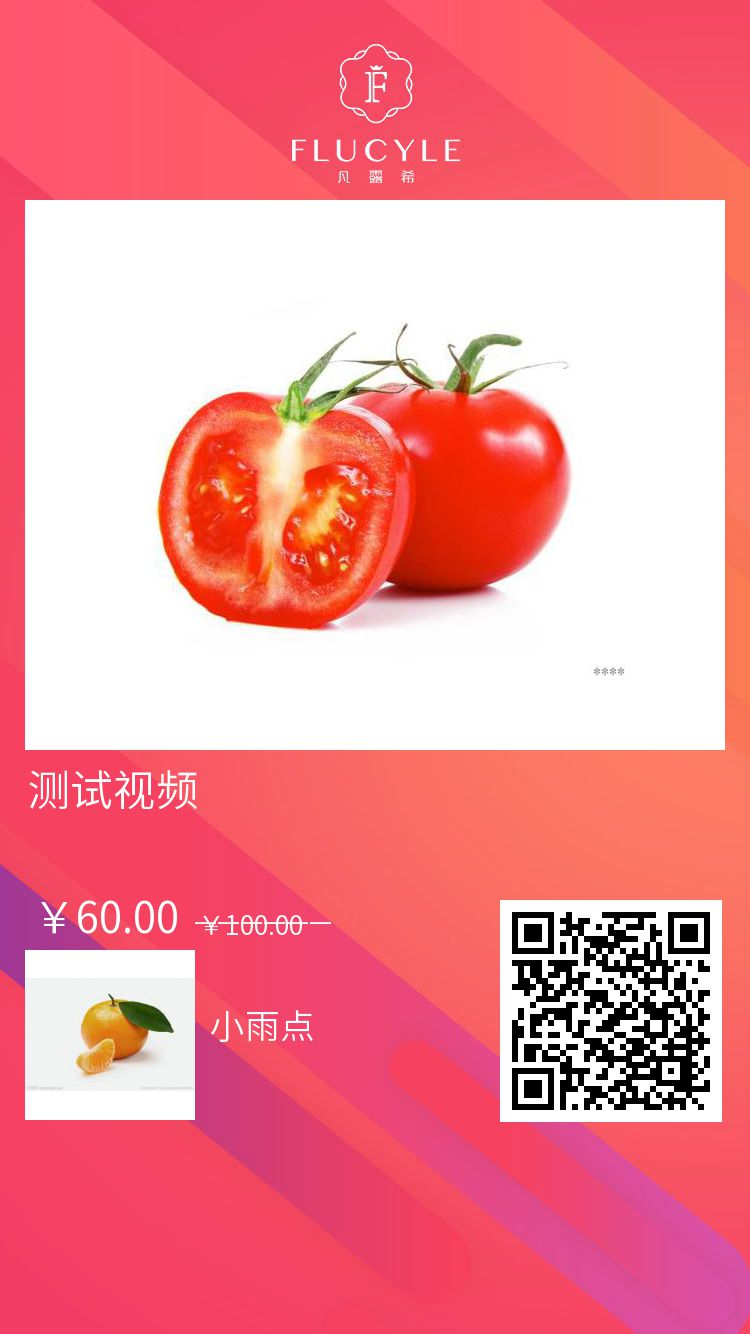
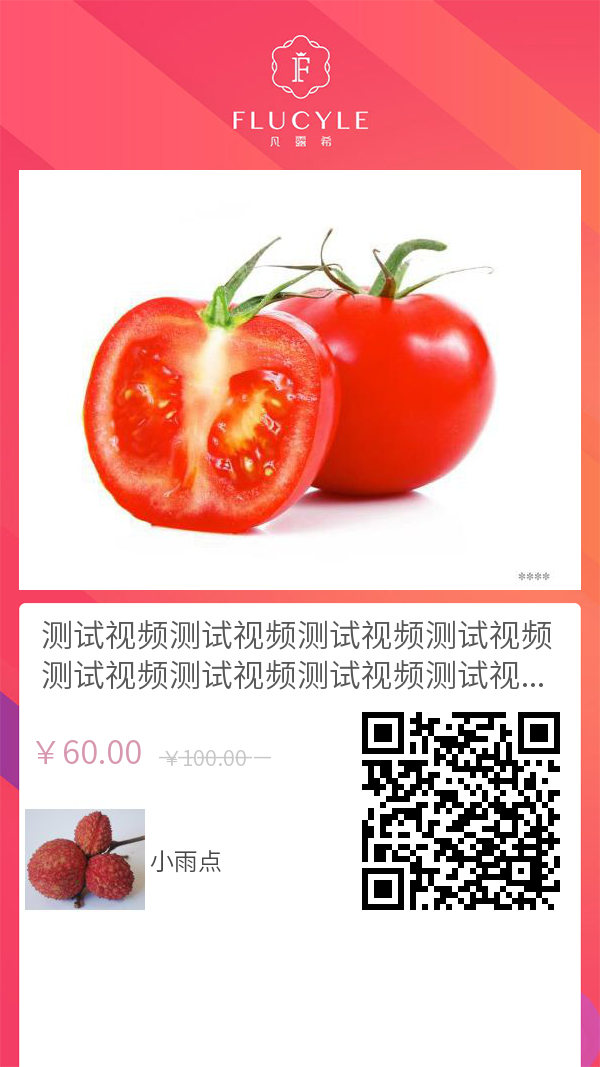
分享

diff --git a/application/shop/controller/Goods.php b/application/shop/controller/Goods.php
@@ -316,7 +316,8 @@ class Goods extends MobileBase
      * 商品详情页
      */
     public function goodsInfo()
-    {   $this->redirect('details', ['id' => I("get.id/d",0),'shareid'=>I('shareid/d',0)]); return;
+    {   
+        $this->redirect('details', ['id' => I("get.id/d",0),'shareid'=>I('shareid/d',0)]); return;
 
         $shareid = I('shareid');
         if(!empty($shareid) && !session('?user'))
@@ -346,7 +347,6 @@ class Goods extends MobileBase
             $collect = db('goods_collect')->where(array("goods_id" => $goods_id, "user_id" => $user_id))->count(); //当前用户收藏
             $this->assign('collect', $collect);
         }
-
         $recommend_goods = M('goods')->where("is_recommend=1 and is_on_sale=1 and cat_id = {$goods['cat_id']}")->cache(7200)->limit(9)->field("goods_id, goods_name, shop_price")->select();
 
         //等级价格
@@ -387,69 +387,73 @@ class Goods extends MobileBase
         $goods_id =  $goods['goods_id'];//商品id
         $goods_name = $goods['goods_name'];//商品名称
         $q_goods_name = mb_substr($goods_name,0,16,'UTF8');
-        $h_goods_name = mb_substr($goods_name,16,16,'UTF8');
+        $h_goods_name = mb_substr($goods_name,16,15,'UTF8');
         $goods_name_num = mb_strlen($goods_name,'UTF8');
-        if($goods_name_num > 32){
+        if($goods_name_num > 31){
             $h_goods_name .= '...';
         }
         $goods_img_url = substr($goods['original_img'],1,200);//商品图片
         if(!file_exists($goods_img_url)){
             return false;
         }
+
         $goods_image = \think\Image::open($goods_img_url);
         // 按照原图的比例生成一个最大为750*550的缩略图并保存
-        $goods_image->thumb(700,550,\think\Image::THUMB_FILLED)->save('public/qrcode/goods/goods_'. $goods_id.'_750_550.png');
+        $goods_image->thumb(562,420,\think\Image::THUMB_FILLED)->save('public/qrcode/goods/goods_'. $goods_id.'_750_550.png');
         $new_godos_img = 'public/qrcode/goods/goods_'. $goods_id.'_750_550.png';//新图片的名字
         //获取商品的二维码
         $goods_qrcode=goods_qrcode($url,$goods_id);
         //背景图片，width-750，height-1335
-        if(!file_exists('public/qrcode/goods/goods_qrcode.jpg')){
+        if(!file_exists('public/qrcode/goods/goods_qrcode.png')){
             return false;
         }
-        $image = \think\Image::open('public/qrcode/goods/goods_qrcode.jpg');
+        
+        $image = \think\Image::open('public/qrcode/goods/goods_qrcode.png');
 
-        $image->water($new_godos_img,[25,200]); //融合商品图
-        $image->water($goods_qrcode,[500,900]); //融合二维码
+        $image->water($new_godos_img,[19,170]); //融合商品图
+        $image->water($goods_qrcode,[350,700]); //融合二维码
         //判断价格字数来放位置
         $goods_price_num = mb_strlen($goods_price,'UTF8');
         $market_price_num = mb_strlen($market_price,'UTF8');
-        $wz = $goods_price_num*28+25;
+        $wz = $goods_price_num*22+25;
         if($market_price_num < 4){
             $market_price_msg = '——';
         }else if($market_price_num == 4){
             $market_price_msg = '———';
         }else if($market_price_num == 5){
             $market_price_msg = '————';
+        }else if($market_price_num == 6){
+            $market_price_msg = '—————';
         }else{
             $market_price_msg = '——————';
         }
         // 给原图添加文字水印并保存
-        $image->text($q_goods_name,'SourceHanSansCN-Normal.ttf',32,'#ffffff',[25,770]);
-        $image->text($h_goods_name,'SourceHanSansCN-Normal.ttf',32,'#ffffff',[25,820]);
-        $image->text($market_price,'SourceHanSansCN-Normal.ttf',20,'#ffffff',[$wz,915]);
-        $image->text($market_price_msg,'SourceHanSansCN-Normal.ttf',20,'#ffffff',[$wz,922]);
+        $image->text($q_goods_name,'SourceHanSansCN-Normal.ttf',24,'#585858',[40,620]);
+        $image->text($h_goods_name,'SourceHanSansCN-Normal.ttf',24,'#585858',[40,660]);
+        $image->text($market_price,'SourceHanSansCN-Normal.ttf',16,'#C7C7C7',[$wz,750]);
+        $image->text($market_price_msg,'SourceHanSansCN-Normal.ttf',16,'#C7C7C7',[$wz,756]);
         //融合用户头像和昵称-
         $user = session('user');
         if($user){
             $q = mb_substr($user['head_pic'],0,1,'UTF8');
             if($q== 'h'){
-                return false;
+                $head_pic = '';
             }else{
                 $head_pic = mb_substr($user['head_pic'],1,200,'UTF8');
             }
             if(file_exists($head_pic)){
                 //缩放用户头像
                 $user_logo = \think\Image::open($head_pic);
-                $user_logo->thumb(170,170,\think\Image::THUMB_FILLED)->save('public/qrcode/user/user_'. $user['user_id'].'_170_170.png');
-                $head_pic = 'public/qrcode/user/user_'. $user['user_id'].'_170_170.png';
+                $user_logo->thumb(120,120,\think\Image::THUMB_FILLED)->save('public/qrcode/user/user_'. $user['user_id'].'_120_120.png');
+                $head_pic = 'public/qrcode/user/user_'. $user['user_id'].'_120_120.png';
                 //融合昵称
                 $nickname = mb_substr($user['nickname'],0,6,'UTF8');
-                $image->water($head_pic,[25,950]); //融合用户头像
-                $image->text($nickname,'SourceHanSansCN-Normal.ttf',26,'#ffffff',[210,1010]);
+                $image->water($head_pic,[25,800]); //融合用户头像
+                $image->text($nickname,'SourceHanSansCN-Normal.ttf',18,'#474747',[150,850]);
             }
         }
         //保存图片
-        $image->text($goods_price,'SourceHanSansCN-Normal.ttf',32,'#ffffff',[25,900])->save('public/qrcode/goods/share_img_'.$goods['goods_id'].'.jpg');
+        $image->text($goods_price,'SourceHanSansCN-Normal.ttf',24,'#D798AF',[25,740])->save('public/qrcode/goods/share_img_'.$goods['goods_id'].'.jpg');
         $share_img = '/public/qrcode/goods/share_img_'.$goods['goods_id'].'.jpg';
         return $share_img;
     }
